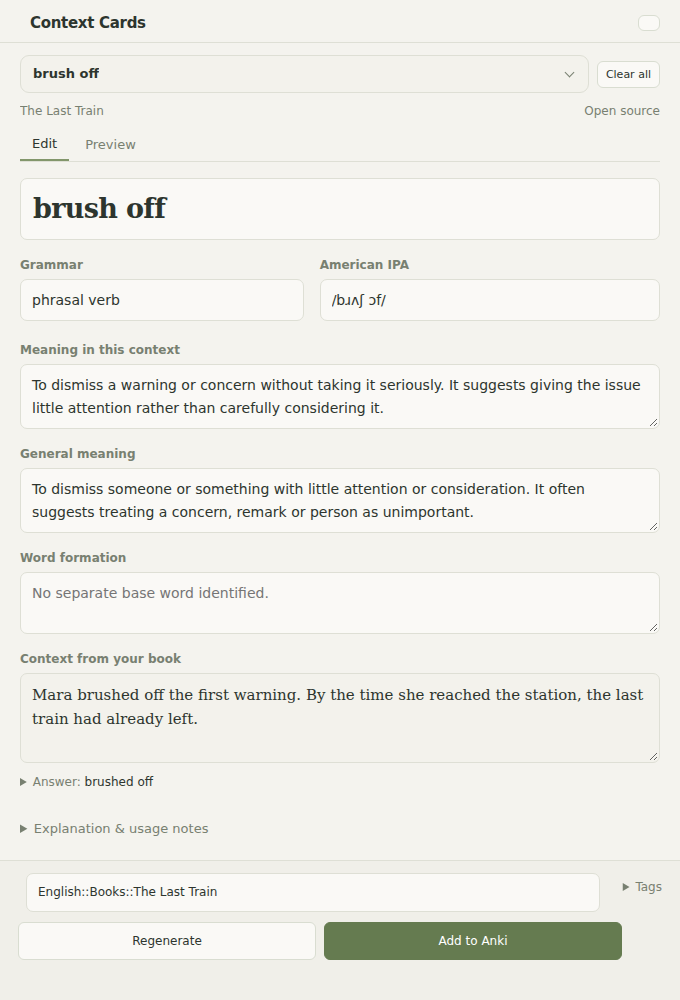
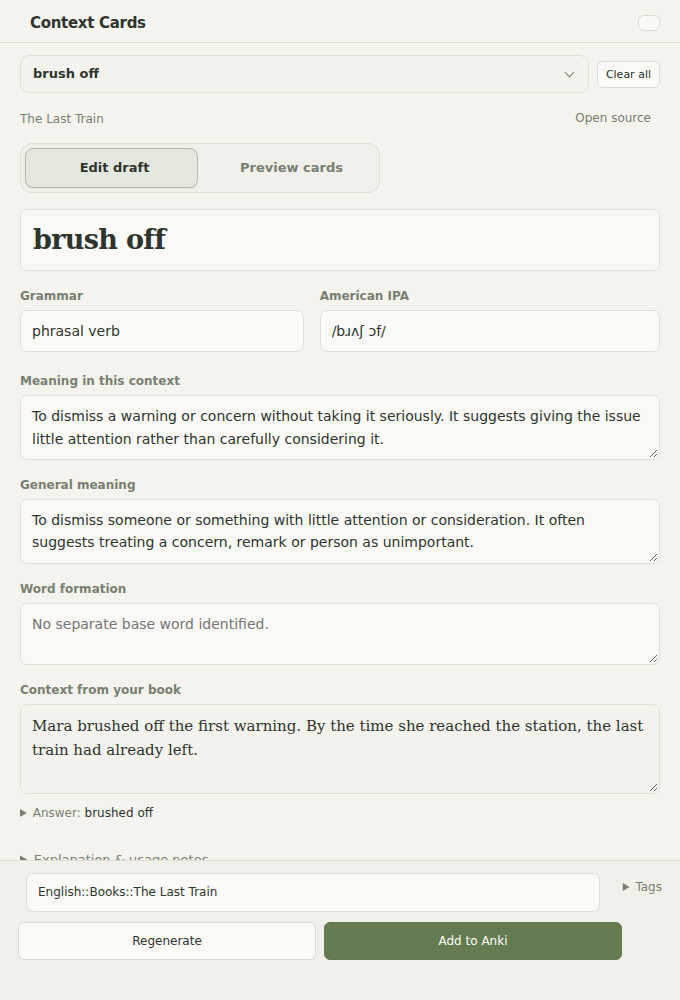
release: prepare 0.3.42 and refresh user documentation

diff --git a/docs/SETUP.md b/docs/SETUP.md
@@ -322,7 +322,8 @@ Disabling **Context from your book** hides ordinary context display, but preserv
 | ChatGPT session expired                 | Click **Continue with ChatGPT** to renew the connection. Drafts are kept.                                                                   |
 | Slow or failed generation               | Initial model load, available memory and timeout. Connectivity checks do not test memory capacity.                                          |
 | Anki unavailable                        | Running Anki Desktop, installed AnkiConnect, URL and API key.                                                                               |
-| Add to Anki disabled                    | The message below Edit, enabled required fields, source answer, pending replacement or duplicate warning.                                   |
+| Add to Anki disabled                    | The message below Edit draft, enabled required fields, source answer, pending replacement or duplicate warning.                             |
+| Cannot connect to AnkiConnect           | Open Anki Desktop with AnkiConnect enabled. Check the Anki server address in plugin settings; a ChatGPT connection does not replace Anki.     |
 | Old button names or duplicated controls | Update with BRAT or the latest ZIP, then restart Obsidian.                                                                                  |
 
 Official references: [Ollama on Windows](https://docs.ollama.com/windows), [AnkiConnect](https://ankiweb.net/shared/info/2055492159), [Anki sync](https://docs.ankiweb.net/manual/syncing), [BRAT](https://tfthacker.com/BRAT).
@@ -399,4 +400,4 @@ Successful exports show **Added to Anki**. A matching existing practice note can
 
 Keep Ollama open while checking/preparing with the local provider, or maintain internet access when using ChatGPT. Keep Anki Desktop open while exporting. Longer selections can take longer or exceed the model's output capacity; split a large text into paragraphs if needed. A result with no findings means the model did not flag issues, not that the text is guaranteed error-free.
 
-Both modes use the same error panel: a short explanation and recovery steps appear first; **Technical details** expands the original message. A new error or a failed retry scrolls the panel to the top so you can see it. Ordinary redraws of an existing error preserve your reading position. A connection failure at the Anki server means Anki Desktop and its AnkiConnect add-on must be running, even when ChatGPT is the selected AI provider. The bottom writing bar keeps its layout during analysis and card preparation; unavailable actions are disabled. Click a dropdown again to close it without changing the selection, or press **Escape**. **Open source** opens the original note.
+Both modes use the same error panel: a short explanation and recovery steps appear first; **Technical details** expands the original message. A new error or a failed retry scrolls the panel to the top so you can see it. Ordinary redraws of an existing error preserve your reading position. A connection failure at the Anki server means Anki Desktop and its AnkiConnect add-on must be running, even when ChatGPT is the selected AI provider. Retrying a failed vocabulary export keeps the last error and any expanded technical details visible until the result arrives; the error clears on success. The bottom writing bar keeps its layout during analysis and card preparation; unavailable actions are disabled. Click a dropdown again to close it without changing the selection, or press **Escape**. **Open source** opens the original note.

diff --git a/README.md b/README.md
@@ -6,7 +6,7 @@
 
 Turn your reading and writing into useful Anki practice, right inside Obsidian. Select a word to understand it, or select your own writing to find mistakes. Your chosen model prepares the material; you review it before adding anything to Anki.
 
-**[Get started — setup guide](docs/SETUP.md)** · **[Download](https://github.com/dmitriikuleshov/context-cards-obsidian/releases/latest)** · **[Interface walkthrough](docs/SETUP.md#4-explore-the-interface)**
+**[Get started — setup guide](docs/SETUP.md)** · **[Download & release notes](https://github.com/dmitriikuleshov/context-cards-obsidian/releases/latest)** · **[Interface walkthrough](docs/SETUP.md#4-explore-the-interface)**
 
 ## Two buttons, two ways to learn
 
@@ -69,6 +69,8 @@ The recall exercise uses the **original source form**. If the book says “brush
 - **Keep the source close.** Review the surrounding passage and jump back to the book.
 - **Organise by book.** Use a separate subdeck for each Markdown file, or choose your own destination.
 - **Check before exporting.** Preview both exercises and edit the draft before it reaches Anki.
+- **See what is selected.** Rounded **Edit draft / Preview cards** controls separate editing from card previews; dropdowns open and close with a click.
+- **Recover without losing your place.** Errors identify the service and explain what to check. New failures scroll into view, while retries keep the error panel and action-bar layout stable.
 - **Pick up where you left off.** The last four drafts in each mode can survive an Obsidian restart.
 - **Mark words as you go.** Optionally format captured words as inline code in the source Markdown.
 - **Review on your phone.** Sync the finished cards through Anki and study in AnkiDroid or AnkiMobile.

diff --git a/docs/DEVELOPMENT.md b/docs/DEVELOPMENT.md
@@ -97,6 +97,7 @@ Consolidate related entries, revise them as behavior changes, and remove entries
 
 ### Improved
 
+- Updated English setup instructions, troubleshooting advice and interface screenshots.
 - New errors in Vocabulary and Find mistakes automatically scroll the panel to the top. A failed retry also reveals the error again; ordinary redraws keep the user's reading position.
 - Vocabulary uses larger, rounded **Edit draft** and **Preview cards** controls with icons, a clear selected state and keyboard focus retained when switching views.
 - Both modes show consistent error panels with recovery steps and expandable technical details. Connection errors identify AnkiConnect, Ollama or ChatGPT.
